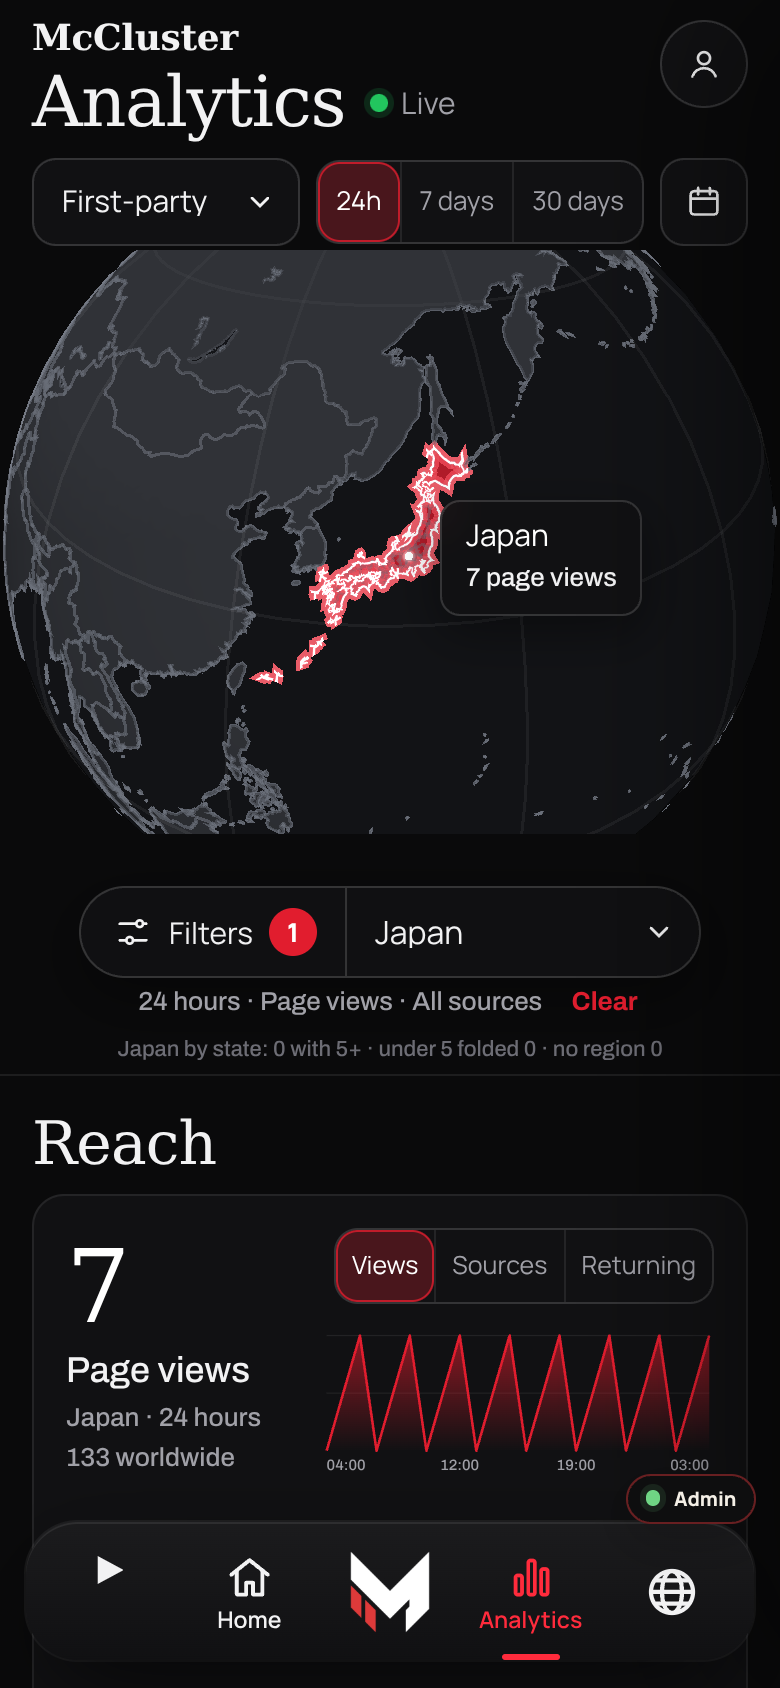
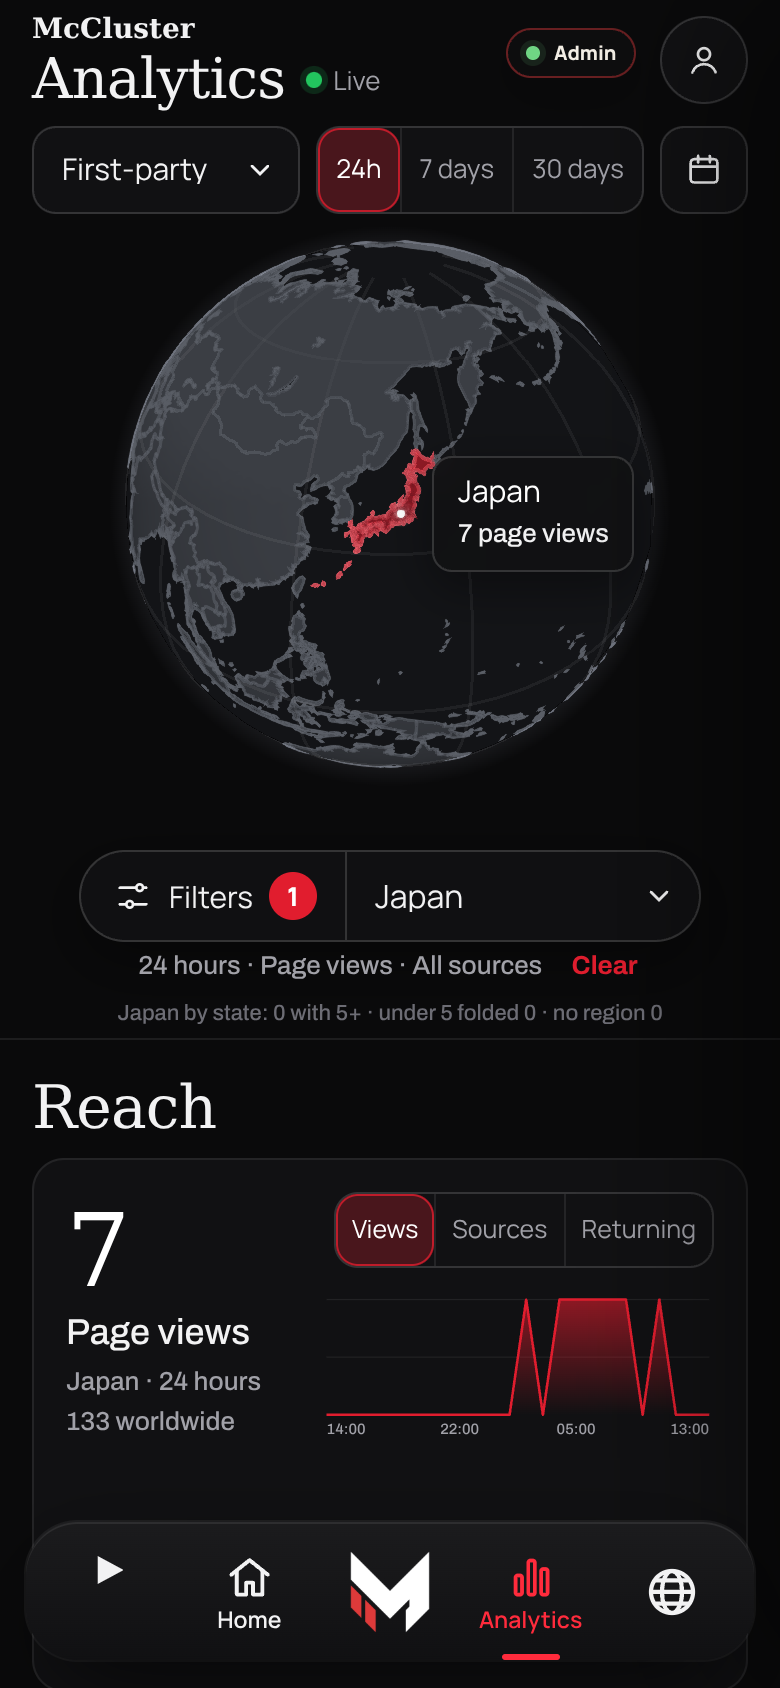
polish(analytics): quiet selection, whole-sphere framing, clearer land, smaller phone header, Admin chip out of the content
- Selection: inner state and prefecture lines are a faint darkened-accent
  hairline; only the selected shape's outer edge is bright (one crisp line,
  no wide glow that spiked on jagged coasts); the fill is a soft accent; a
  selected state's country keeps a medium accent edge.
- Framing: a country is turned to face the viewer and the whole sphere stays
  in the stage (altitude solved from the camera's field of view); only a
  state under about 40 px across is approached, from a 40 degree angle, so
  the curve of the Earth stays in view.
- Land a clear step lighter than the sphere; coast and border hairlines a
  small step lighter than the land; MSAA and FXAA.
- Phone header smaller (McCluster 14px, Analytics about 28px, 42-44px
  controls); the shared bar's Admin chip sits in the header row on the
  analytics screen and never covers a card.
- The Japan sawtooth was the e2e fixture (0/1/2 alternating for every
  country but the US), not the chart: the fixture now scales the hourly shape
  to each country's total.
- e2e: whole sphere at rest and for a country, Connecticut approached at an
  angle, the Admin chip overlaps nothing, Audience scrolls fully above the bar.

Claude-Session: https://claude.ai/code/session_01QSToSy6zDqXfpVjR1QubfN

diff --git a/js/control-room/analytics-globe.js b/js/control-room/analytics-globe.js
@@ -147,13 +147,13 @@
     function valueOf(code) { if (!code) return null; for (var i = 0; i < api.data.points.length; i++) if (api.data.points[i].code === code) return api.data.points[i]; return null; }
     function countryColor(code) {
       var sel = api.sel;
-      if (code && code === sel.country) return sel.state ? C["land-context"] : C.accent.withAlpha(0.78);
+      if (code && code === sel.country) return sel.state ? C["land-context"] : C.accent.withAlpha(0.62);
       return C.land;
     }
     function stateColor(k) {
       var sel = api.sel;
       if (!sel.state) return C.land.withAlpha(0.012); /* invisible but still tappable over the country's fill */
-      if (k === sel.state) return C.accent.withAlpha(0.8);
+      if (k === sel.state) return C.accent.withAlpha(0.66);
       return C["land-context"];
     }
     var needRecolor = false;
@@ -191,6 +191,8 @@
     var borders = null, lineIdsByCode = {}, lakeCount = 0, scaleNote = null;
     function buildCountries(geo) {
       var inst = [], lines = [], seq = 0;
+      /* hairlines a small step lighter than the land, so a 1:50m coast reads as an edge, not as fuzz */
+      var hair = Cs.Color.lerp(C.land, C.border, 0.45, new Cs.Color()).withAlpha(0.85);
       countries = geo.countries || []; scaleNote = geo.source || null; lakeCount = (geo.lakes || []).length;
       countries.forEach(function (c) {
         var code = c.c || ("_" + (seq++));
@@ -200,7 +202,7 @@
           var id = "c|" + code + "|" + pi;
           /* Antarctica's ring runs along the pole; it is drawn as borders only */
           if (code !== "AQ") { inst.push(polygonInstance(id, poly, 1200, C.land)); (instancesByCode[code] = instancesByCode[code] || []).push(id); }
-          poly.forEach(function (ring, ri) { var lid = "b|" + code + "|" + pi + "." + ri; lines.push(ringLine(ring, 6000, C.border.withAlpha(0.8), 1, lid)); (lineIdsByCode[code] = lineIdsByCode[code] || []).push(lid); });
+          poly.forEach(function (ring, ri) { var lid = "b|" + code + "|" + pi + "." + ri; lines.push(ringLine(ring, 6000, hair, 1, lid)); (lineIdsByCode[code] = lineIdsByCode[code] || []).push(lid); });
         });
       });
       /* the 1:50m lakes are cut out of the land: the sphere's own grey, above every land fill, with a fine shore */
@@ -208,7 +210,7 @@
       (geo.lakes || []).forEach(function (poly, li) {
         if (!poly[0] || poly[0].length < 6) return;
         lakes.push(polygonInstance("l|" + li + "|", poly, 3600, C.earth));
-        shores.push(ringLine(poly[0], 6000, C.border.withAlpha(0.5), 1));
+        shores.push(ringLine(poly[0], 6000, hair, 1));
       });
       /* a faint graticule every 30 degrees */
       for (var lon = -180; lon < 180; lon += 30) { var mer = []; for (var la = -80; la <= 80; la += 5) mer.push(lon, la, 4000); lines.push(gline(mer)); }
@@ -230,18 +232,19 @@
       dropStates(); if (!file || !file.states) return;
       var inst = [], lines = [];
       st.cc = cc; st.file = file;
+      /* inner lines are quiet: a hairline of the accent darkened toward the land, never a bright white */
+      var faint = Cs.Color.lerp(C.accent, C.earth, 0.55, new Cs.Color()).withAlpha(0.55);
       /* the country itself at 1:10m (the dissolve of its own states, so the edges agree), under its states */
       (file.outline || []).forEach(function (poly, pi) {
         if (!poly[0] || poly[0].length < 6) return;
         var id = "c|" + cc + "|o" + pi; inst.push(polygonInstance(id, poly, 2000, countryColor(cc))); st.out.push(id);
-        poly.forEach(function (ring) { lines.push(ringLine(ring, 6600, C.border.withAlpha(0.85), 1)); });
       });
       file.states.forEach(function (s) {
         st.byKey[s.k] = s; st.ids[s.k] = [];
         (s.p || []).forEach(function (poly, pi) {
           if (!poly[0] || poly[0].length < 6) return;
           var id = "s|" + s.k + "|" + pi; inst.push(polygonInstance(id, poly, 3000, C.land.withAlpha(0.012))); st.ids[s.k].push(id);
-          lines.push(ringLine(poly[0], 6500, C.border.withAlpha(0.4), 1));
+          lines.push(ringLine(poly[0], 6500, faint, 1));
         });
       });
       if (!inst.length) return;
@@ -264,12 +267,14 @@
     function drawSelection() {
       [outlineLayer, dotLayer].forEach(function (l) { if (l) scene.primitives.remove(l); });
       outlineLayer = dotLayer = null;
-      var polys = selectedPolys(), rings = [];
-      polys.forEach(function (poly) { if (poly[0] && poly[0].length >= 6) rings.push(poly[0]); });
-      if (rings.length) outlineLayer = scene.primitives.add(new Cs.Primitive({ asynchronous: false,
-        geometryInstances: rings.map(function (ring) { var h = []; for (var k = 0; k < ring.length; k += 2) h.push(ring[k], ring[k + 1], 9000); h.push(ring[0], ring[1], 9000);
-          return new Cs.GeometryInstance({ geometry: new Cs.PolylineGeometry({ positions: Cs.Cartesian3.fromDegreesArrayHeights(h), width: 5, arcType: Cs.ArcType.RHUMB, vertexFormat: Cs.PolylineMaterialAppearance.VERTEX_FORMAT }) }); }),
-        appearance: new Cs.PolylineMaterialAppearance({ material: Cs.Material.fromType("PolylineGlow", { color: C.outline, glowPower: 0.22, taperPower: 1 }) }) }));
+      /* the selected edge: one crisp bright hairline (a wide glow line spikes at every miter of a jagged coast); a
+         selected state's country keeps a medium accent edge for context */
+      var inst = [], ringsOf = function (polys) { var r = []; (polys || []).forEach(function (poly) { if (poly[0] && poly[0].length >= 6) r.push(poly[0]); }); return r; };
+      var edge = function (rings, h, col, w) { rings.forEach(function (ring) { inst.push(ringLine(ring, h, col, w)); }); };
+      var main = ringsOf(selectedPolys());
+      if (api.sel.state && api.sel.country) edge(ringsOf(st.cc === api.sel.country && st.file && st.file.outline && st.file.outline.length ? st.file.outline : polysByCode[api.sel.country]), 8800, C.accent.withAlpha(0.55), 1.2);
+      edge(main, 9000, C.outline, 1.5);
+      if (inst.length) outlineLayer = scene.primitives.add(new Cs.Primitive({ asynchronous: false, geometryInstances: inst, appearance: new Cs.PolylineColorAppearance({ translucent: true }) }));
       /* a state's parent country is its context: the country's other states stay drawn (lines and shading) and the
          label names the country; the coarse 1:110m country outline is not redrawn over the finer state edges */
       var ll = (api.sel.country || api.sel.state) ? labelPoint() : null;
@@ -318,7 +323,12 @@
         fill: function (code) { if (code === st.cc && st.out.length && st.fills && st.fills.ready) { var o = st.fills.getGeometryInstanceAttributes(st.out[0]); return o ? Array.prototype.slice.call(o.color) : null; } var ids = instancesByCode[code]; if (!ids || !fills || !fills.ready) return null; var a = fills.getGeometryInstanceAttributes(ids[0]); return a ? Array.prototype.slice.call(a.color) : null; },
         lakes: lakeCount, scale: scaleNote,
         stateFill: function (k) { var ids = st.ids[k]; if (!ids || !ids.length || !st.fills || !st.fills.ready) return null; var a = st.fills.getGeometryInstanceAttributes(ids[0]); return a ? Array.prototype.slice.call(a.color) : null; },
-        camera: c ? { lon: Cs.Math.toDegrees(c.longitude), lat: Cs.Math.toDegrees(c.latitude), height: c.height } : null, tip: tip.hidden ? null : tip.textContent };
+        camera: c ? { lon: Cs.Math.toDegrees(c.longitude), lat: Cs.Math.toDegrees(c.latitude), height: c.height, pitch: Cs.Math.toDegrees(camera.pitch) } : null,
+        look: (function () { if (!api.ready) return null; var p = camera.pickEllipsoid(new Cs.Cartesian2(scene.canvas.clientWidth / 2, scene.canvas.clientHeight / 2)); if (!p) return null; var g = Cs.Cartographic.fromCartesian(p); return { lon: Cs.Math.toDegrees(g.longitude), lat: Cs.Math.toDegrees(g.latitude) }; })(),
+        sphere: (function () { if (!api.ready) return null; /* the Earth's disc on the canvas: is it whole? */
+          var r = Cs.Ellipsoid.WGS84.maximumRadius, d = Cs.Cartesian3.magnitude(camera.positionWC), ang = Math.asin(Math.min(1, r / d)), f = camera.frustum, fov = f.fovy || f.fov, H = scene.canvas.clientHeight, W = scene.canvas.clientWidth;
+          var px = Math.tan(ang) / Math.tan(fov / 2) * (H / 2); return { radiusPx: px, fits: camera.pitch < -1.5 && px * 2 <= Math.min(W, H) + 1 }; })(),
+        tip: tip.hidden ? null : tip.textContent };
     };
     /* the label: the selected place (or, with a mouse, the hovered one), pinned to its label point */
     function placeTip() {
@@ -365,24 +375,40 @@
     }
     function homeView(dur) {
       var dest = Cs.Cartesian3.fromDegrees(opts.home ? opts.home[0] : -60, opts.home ? opts.home[1] : 22, homeAltitude());
-      if (dur) camera.flyTo({ destination: dest, duration: dur, easingFunction: Cs.EasingFunction.CUBIC_IN_OUT }); else { camera.cancelFlight(); camera.setView({ destination: dest }); scene.requestRender(); }
+      if (dur) camera.flyTo({ destination: dest, duration: dur, easingFunction: Cs.EasingFunction.CUBIC_IN_OUT }); else { camera.cancelFlight(); camera.setView({ destination: dest, orientation: { heading: 0, pitch: -Cs.Math.PI_OVER_TWO, roll: 0 } }); scene.requestRender(); }
     }
     function flyToSel() {
       if (!api.ready) return;
       var dur = reducedMotion() ? 0 : 0.8;
       if (!api.sel.country) { homeView(dur); return; }
-      var box = fitBox(selectedPolys(), api.sel.state ? 2.2 : 6);
-      if (!box) { var ll = labelPoint(); if (!ll) return; box = [ll[0] - 8, ll[1] - 6, ll[0] + 8, ll[1] + 6]; }
-      /* fit the shape, but never so close that the planet is lost: a country keeps the curve of the Earth in view,
-         a state its neighbours (owner: "show me where on the planet it is") */
-      var rect = Cs.Rectangle.fromDegrees(box[0], box[1], box[2], box[3]);
-      var at = Cs.Cartographic.fromCartesian(camera.getRectangleCameraCoordinates(rect));
-      var dest = Cs.Cartesian3.fromRadians(at.longitude, at.latitude, Math.max(at.height, api.sel.state ? 7e5 : 6.5e6));
-      if (dur) camera.flyTo({ destination: dest, duration: dur, easingFunction: Cs.EasingFunction.CUBIC_IN_OUT });
-      else { camera.cancelFlight(); camera.setView({ destination: dest }); scene.requestRender(); }
+      var box = fitBox(selectedPolys(), 0), ll = labelPoint();
+      if (!box) { if (!ll) return; box = [ll[0] - 1, ll[1] - 1, ll[0] + 1, ll[1] + 1]; }
+      var cx = (box[0] + box[2]) / 2, cy = (box[1] + box[3]) / 2;
+      /* "show me where on the planet it is": the whole sphere stays in view, turned so the place faces the viewer.
+         Only a state that would be under about 40 px across at that distance is approached, from an angle, so the
+         curve of the Earth stays in the top of the view. */
+      var spanDeg = Math.max((box[2] - box[0]) * Math.cos(cy * Math.PI / 180), box[3] - box[1]) / 1.3;
+      var pxPerDeg = Math.min(host.clientWidth || 390, host.clientHeight || 300) * 0.41 * Math.PI / 180;
+      if (!api.sel.state || spanDeg * pxPerDeg >= 40) {
+        var dest = Cs.Cartesian3.fromDegrees(cx, cy, homeAltitude(0.9));
+        if (dur) camera.flyTo({ destination: dest, duration: dur, easingFunction: Cs.EasingFunction.CUBIC_IN_OUT });
+        else { camera.cancelFlight(); camera.setView({ destination: dest }); scene.requestRender(); }
+        return;
+      }
+      var radius = Math.max(25000, spanDeg / 2 * 111000), range = Math.min(1.6e6, Math.max(6e5, radius * 10));
+      var sphere = new Cs.BoundingSphere(Cs.Cartesian3.fromDegrees(cx, cy, 0), radius);
+      var offset = new Cs.HeadingPitchRange(0, Cs.Math.toRadians(-40), range);
+      if (dur) camera.flyToBoundingSphere(sphere, { offset: offset, duration: dur, easingFunction: Cs.EasingFunction.CUBIC_IN_OUT });
+      else { camera.cancelFlight(); camera.flyToBoundingSphere(sphere, { offset: offset, duration: 0 }); scene.requestRender(); }
     }
-    /* the whole Earth fits the stage: Cesium's field of view spans the longer side, so the altitude follows the aspect */
-    function homeAltitude() { var w = host.clientWidth || 390, h = host.clientHeight || 300; return 8.6e6 * Math.max(w, h) / Math.max(1, Math.min(w, h)); }
+    /* the whole Earth floats in the stage: the altitude at which its disc is `share` of the stage's shorter side,
+       solved from the camera's own vertical field of view (so it holds at any aspect) */
+    function homeAltitude(share) {
+      var w = (scene && scene.canvas.clientWidth) || host.clientWidth || 390, h = (scene && scene.canvas.clientHeight) || host.clientHeight || 300;
+      var f = camera && camera.frustum, fovy = f && (f.fovy || f.fov) || Math.PI / 3, R = 6378137;
+      var px = (share || 0.82) * Math.min(w, h) / 2, a = Math.atan(px * Math.tan(fovy / 2) / (h / 2));
+      return R / Math.sin(a) - R;
+    }
     var seq = 0;
     function ensureStates(cc) {
       if (!cc) { if (st.cc) { dropStates(); scene.requestRender(); } return Promise.resolve(null); }
@@ -422,7 +448,7 @@
       try {
         widget = new Cs.CesiumWidget(canvasBox, {
           baseLayer: false, skyBox: false, skyAtmosphere: false, scene3DOnly: true, shadows: false,
-          requestRenderMode: true, maximumRenderTimeChange: Infinity, useBrowserRecommendedResolution: false,
+          requestRenderMode: true, maximumRenderTimeChange: Infinity, useBrowserRecommendedResolution: false, msaaSamples: 4,
           creditContainer: host.querySelector("[data-crg-credit]"),
           contextOptions: { webgl: { alpha: true, antialias: true, powerPreference: "low-power" } }
         });
@@ -445,6 +471,7 @@
       g.showSkirts = false; g.depthTestAgainstTerrain = false;
       if (scene.sun) scene.sun.show = false; if (scene.moon) scene.moon.show = false;
       scene.fog.enabled = false;
+      if (scene.postProcessStages && scene.postProcessStages.fxaa) scene.postProcessStages.fxaa.enabled = true;
       var ctl = scene.screenSpaceCameraController; ctl.enableTilt = false; ctl.enableLook = false;
       ctl.minimumZoomDistance = 1.2e5; ctl.maximumZoomDistance = 4.5e7;
       occluder = new Cs.EllipsoidalOccluder(Cs.Ellipsoid.WGS84, camera.positionWC); scratch2 = new Cs.Cartesian2();

diff --git a/css/control-analytics.css b/css/control-analytics.css
@@ -170,16 +170,16 @@ ul.cra-sites{margin:0;padding:0;list-style:none}
    segment, the filter count, Clear, the current card dot. Swap the accent here and the whole screen follows; the globe
    reads the same tokens (js/control-room/analytics-globe.js). Nothing else on this screen is red. */
 .cra-app{--an-accent:#e11d2e;--an-accent-ruby:color-mix(in srgb,var(--an-accent) 26%,#141416);--an-accent-line:color-mix(in srgb,var(--an-accent) 78%,transparent);--an-accent-muted:color-mix(in srgb,var(--an-accent) 38%,#2a2a2e);
-  --an-rim:rgba(175,182,205,.26);--an-space:#0b0b0d;--an-earth:#121316;--an-land:#303237;--an-land-context:#3a3d44;--an-border:#6a6f79;--an-graticule:#ffffff;
+  --an-rim:rgba(175,182,205,.26);--an-space:#0b0b0d;--an-earth:#131417;--an-land:#3b3e44;--an-land-context:#464950;--an-border:#80858f;--an-graticule:#ffffff;
   --k-bg:#0a0a0b;--k-card:#111113;--k-line:rgba(255,255,255,.08);--k-line2:rgba(255,255,255,.15);--k-text:#f2f2f3;--k-dim:#a1a1a8;--k-faint:#6f6f77;--k-red:var(--an-accent);--k-red-hot:var(--an-accent);--k-live:#22c55e;--k-serif:"Iowan Old Style","Palatino Linotype",Palatino,"Book Antiqua",Georgia,"DejaVu Serif","Liberation Serif",serif}
 .cra-split{display:grid;grid-template-columns:minmax(0,1fr);gap:0;min-width:0;background:var(--k-bg);color:var(--k-text)}
 .cra-lead-col{display:grid;min-width:0}
-.cra-top{display:grid;gap:10px;padding:10px 16px 2px}
+.cra-top{display:grid;gap:8px;padding:8px 16px 0}
 .cra-top__row{display:flex;align-items:flex-start;justify-content:space-between;gap:12px}
-.cra-top__eyebrow{margin:0;font:600 18px/1.1 var(--k-serif);letter-spacing:-.01em;color:var(--k-text)}
-.cra-top__title{display:flex;align-items:center;gap:12px;margin:4px 0 0;font:500 clamp(32px,9vw,44px)/1 var(--k-serif);letter-spacing:-.02em}
-.cra-live{display:inline-flex;align-items:center;gap:7px;margin:0;padding:0;border:0;background:none;font:500 15px/1 var(--ui,system-ui,sans-serif);letter-spacing:0;color:var(--k-dim)}
-.cra-live i{width:9px;height:9px;border-radius:50%;background:var(--k-faint)}
+.cra-top__eyebrow{margin:0;font:600 14px/1.1 var(--k-serif);letter-spacing:0;color:var(--k-text)}
+.cra-top__title{display:flex;align-items:center;gap:10px;margin:2px 0 0;font:500 clamp(27px,7.2vw,44px)/1.05 var(--k-serif);letter-spacing:-.015em}
+.cra-live{display:inline-flex;align-items:center;gap:6px;margin:0;padding:0;border:0;background:none;font:500 13px/1 var(--ui,system-ui,sans-serif);letter-spacing:0;color:var(--k-dim)}
+.cra-live i{width:8px;height:8px;border-radius:50%;background:var(--k-faint)}
 .cra-live.is-live i{background:var(--k-live);box-shadow:0 0 0 3px rgba(34,197,94,.16)}
 .cra-live.is-loading i{background:#f0b44d;animation:craPulse 1s ease-in-out infinite}
 .cra-live.is-error i{background:var(--k-red)}
@@ -192,7 +192,7 @@ ul.cra-sites{margin:0;padding:0;list-style:none}
 .cra-top__prop:focus-within{outline:2px solid #fff;outline-offset:2px}
 .cra-app .cra-property{position:absolute;inset:0;width:100%;min-height:44px;opacity:0;border:0;cursor:pointer;font-size:max(16px,1rem)}
 .cra-seg{display:inline-flex;flex:none;border:1px solid var(--k-line2);border-radius:12px;overflow:hidden;background:#111113}
-.cra-seg__b{min-height:40px;padding:0 9px;border:0;border-left:1px solid var(--k-line);background:transparent;color:var(--k-dim);font:500 13px/1 var(--ui,system-ui,sans-serif);white-space:nowrap;cursor:pointer;transition:background-color .16s ease,color .16s ease}
+.cra-seg__b{min-height:42px;padding:0 9px;border:0;border-left:1px solid var(--k-line);background:transparent;color:var(--k-dim);font:500 13px/1 var(--ui,system-ui,sans-serif);white-space:nowrap;cursor:pointer;transition:background-color .16s ease,color .16s ease}
 .cra-seg__b:first-child{border-left:0}
 .cra-seg__b.is-on{background:var(--an-accent-ruby);color:#fff;box-shadow:inset 0 0 0 1px var(--an-accent-line);border-radius:11px}
 .cra-seg__b:focus-visible,.cra-cal:focus-visible,.cra-pill button:focus-visible,.cra-dot:focus-visible{outline:2px solid #fff;outline-offset:2px}
@@ -226,7 +226,7 @@ ul.cra-sites{margin:0;padding:0;list-style:none}
 .cra-sheet .cra-filters{border:0;padding:0;background:transparent}
 .cra-side{display:grid;gap:10px;min-width:0;padding:6px 16px 24px;background:var(--k-bg)}
 .cra-side__body{container-type:inline-size;container-name:cra;min-width:0}
-.cra-h{margin:12px 0 8px;font:500 30px/1.1 var(--k-serif);letter-spacing:-.015em;color:var(--k-text)}
+.cra-h{width:fit-content;margin:12px 0 8px;font:500 30px/1.1 var(--k-serif);letter-spacing:-.015em;color:var(--k-text)}
 .cra-carsec{min-width:0}
 .cra-car{position:relative;min-width:0}
 .cra-car__track{display:grid;grid-auto-flow:column;grid-auto-columns:100%;gap:12px;overflow-x:auto;overscroll-behavior-x:contain;scroll-snap-type:x mandatory;scrollbar-width:none;-webkit-overflow-scrolling:touch}
@@ -283,6 +283,9 @@ ul.cra-sites{margin:0;padding:0;list-style:none}
 /* the Control Room around it: on the Analytics surface the page is the screen (no topbar, no padding) */
 body.cr[data-cr-surface="analytics"]{background:#0a0a0b}
 body.cr[data-cr-surface="analytics"] .cr-topbar{display:none}
+/* the shared bar's "Admin" chip (js/tabbar.js) sits in the header row here, beside the account button, so it never
+   covers a card or a chart; it scrolls away with the header */
+body.cr[data-cr-surface="analytics"] .mcc-auth-chip{position:absolute;top:calc(14px + env(safe-area-inset-top));right:72px;bottom:auto;z-index:20}
 body.cr[data-cr-surface="analytics"] .cr-shell{grid-template-rows:minmax(0,1fr);grid-template-areas:"main"}
 body.cr[data-cr-surface="analytics"] .cr-main{padding:0;min-height:0}
 body.cr[data-cr-surface="analytics"] .cr-surface{max-width:none}

diff --git a/docs/control-plane/WORLD-GLOBE-FEED-AND-ANALYTICS.md b/docs/control-plane/WORLD-GLOBE-FEED-AND-ANALYTICS.md
@@ -295,10 +295,14 @@ for the ADMIN analytics view only.
 - **One selection** `{country, state}`: the location menu (all countries;
   the selected country's states listed under it as "US/US-CT"), the rows,
   Clear and a tap on the globe all go through `pickPlace()`, and the globe is
-  told `select({country, state}, fly)`. The selected shape fills with
-  `--an-accent` and gets a bright outline with a soft glow (no pulse); the
-  camera flies to fit it (0.8 s, eased; a jump under reduced motion; never so
-  close that the planet or the neighbours are lost); a small dark-glass label
+  told `select({country, state}, fly)`. The selected shape fills with a soft
+  `--an-accent` and one crisp bright edge (no wide glow line: it spikes on a
+  jagged coast; no pulse); inner state lines are a faint darkened-accent
+  hairline; a selected state's country keeps a medium accent edge. The camera
+  (0.8 s, eased; a jump under reduced motion) turns a country to face the
+  viewer and keeps the WHOLE sphere floating in the stage; only a state that
+  would be under about 40 px across is approached, from a 40° angle, so the
+  curve of the Earth stays in the top of the view. A small dark-glass label
   shows the name, the parent country for a state, and the page views; a white
   dot marks the label point. A tap on a state of the selected country selects
   the state (again: back to the country); the selected country again clears.
@@ -321,6 +325,13 @@ for the ADMIN analytics view only.
   active segment (`--an-accent-ruby`), the filter count, Clear and the
   current card dot. The globe reads the same tokens through the browser, so
   the accent swaps from one place.
+- **Polish (2026-10-16, second pass).** Land a clear step lighter than the
+  sphere; coast and border hairlines a small step lighter than the land, with
+  MSAA and FXAA; a smaller header on a phone; the shared bar's "Admin" chip sits
+  in the header row on this screen so it never covers a card. The Japan
+  sawtooth in the screenshots was the e2e fixture (it alternated 0/1/2 for every
+  country but the US), not the chart or the bucketing; the fixture now scales
+  the hourly shape to each country's total.
 - **Payloads** (bytes, raw / gzip -9): world 1:50m 602,872 / 189,291; a state
   file: US 100,552 / 26,655, Japan 36,784 / 8,539, Germany 15,379 / 4,225,
   Russia (largest) 228,452; all 239 state files together 3.57 MB / 0.91 MB,
